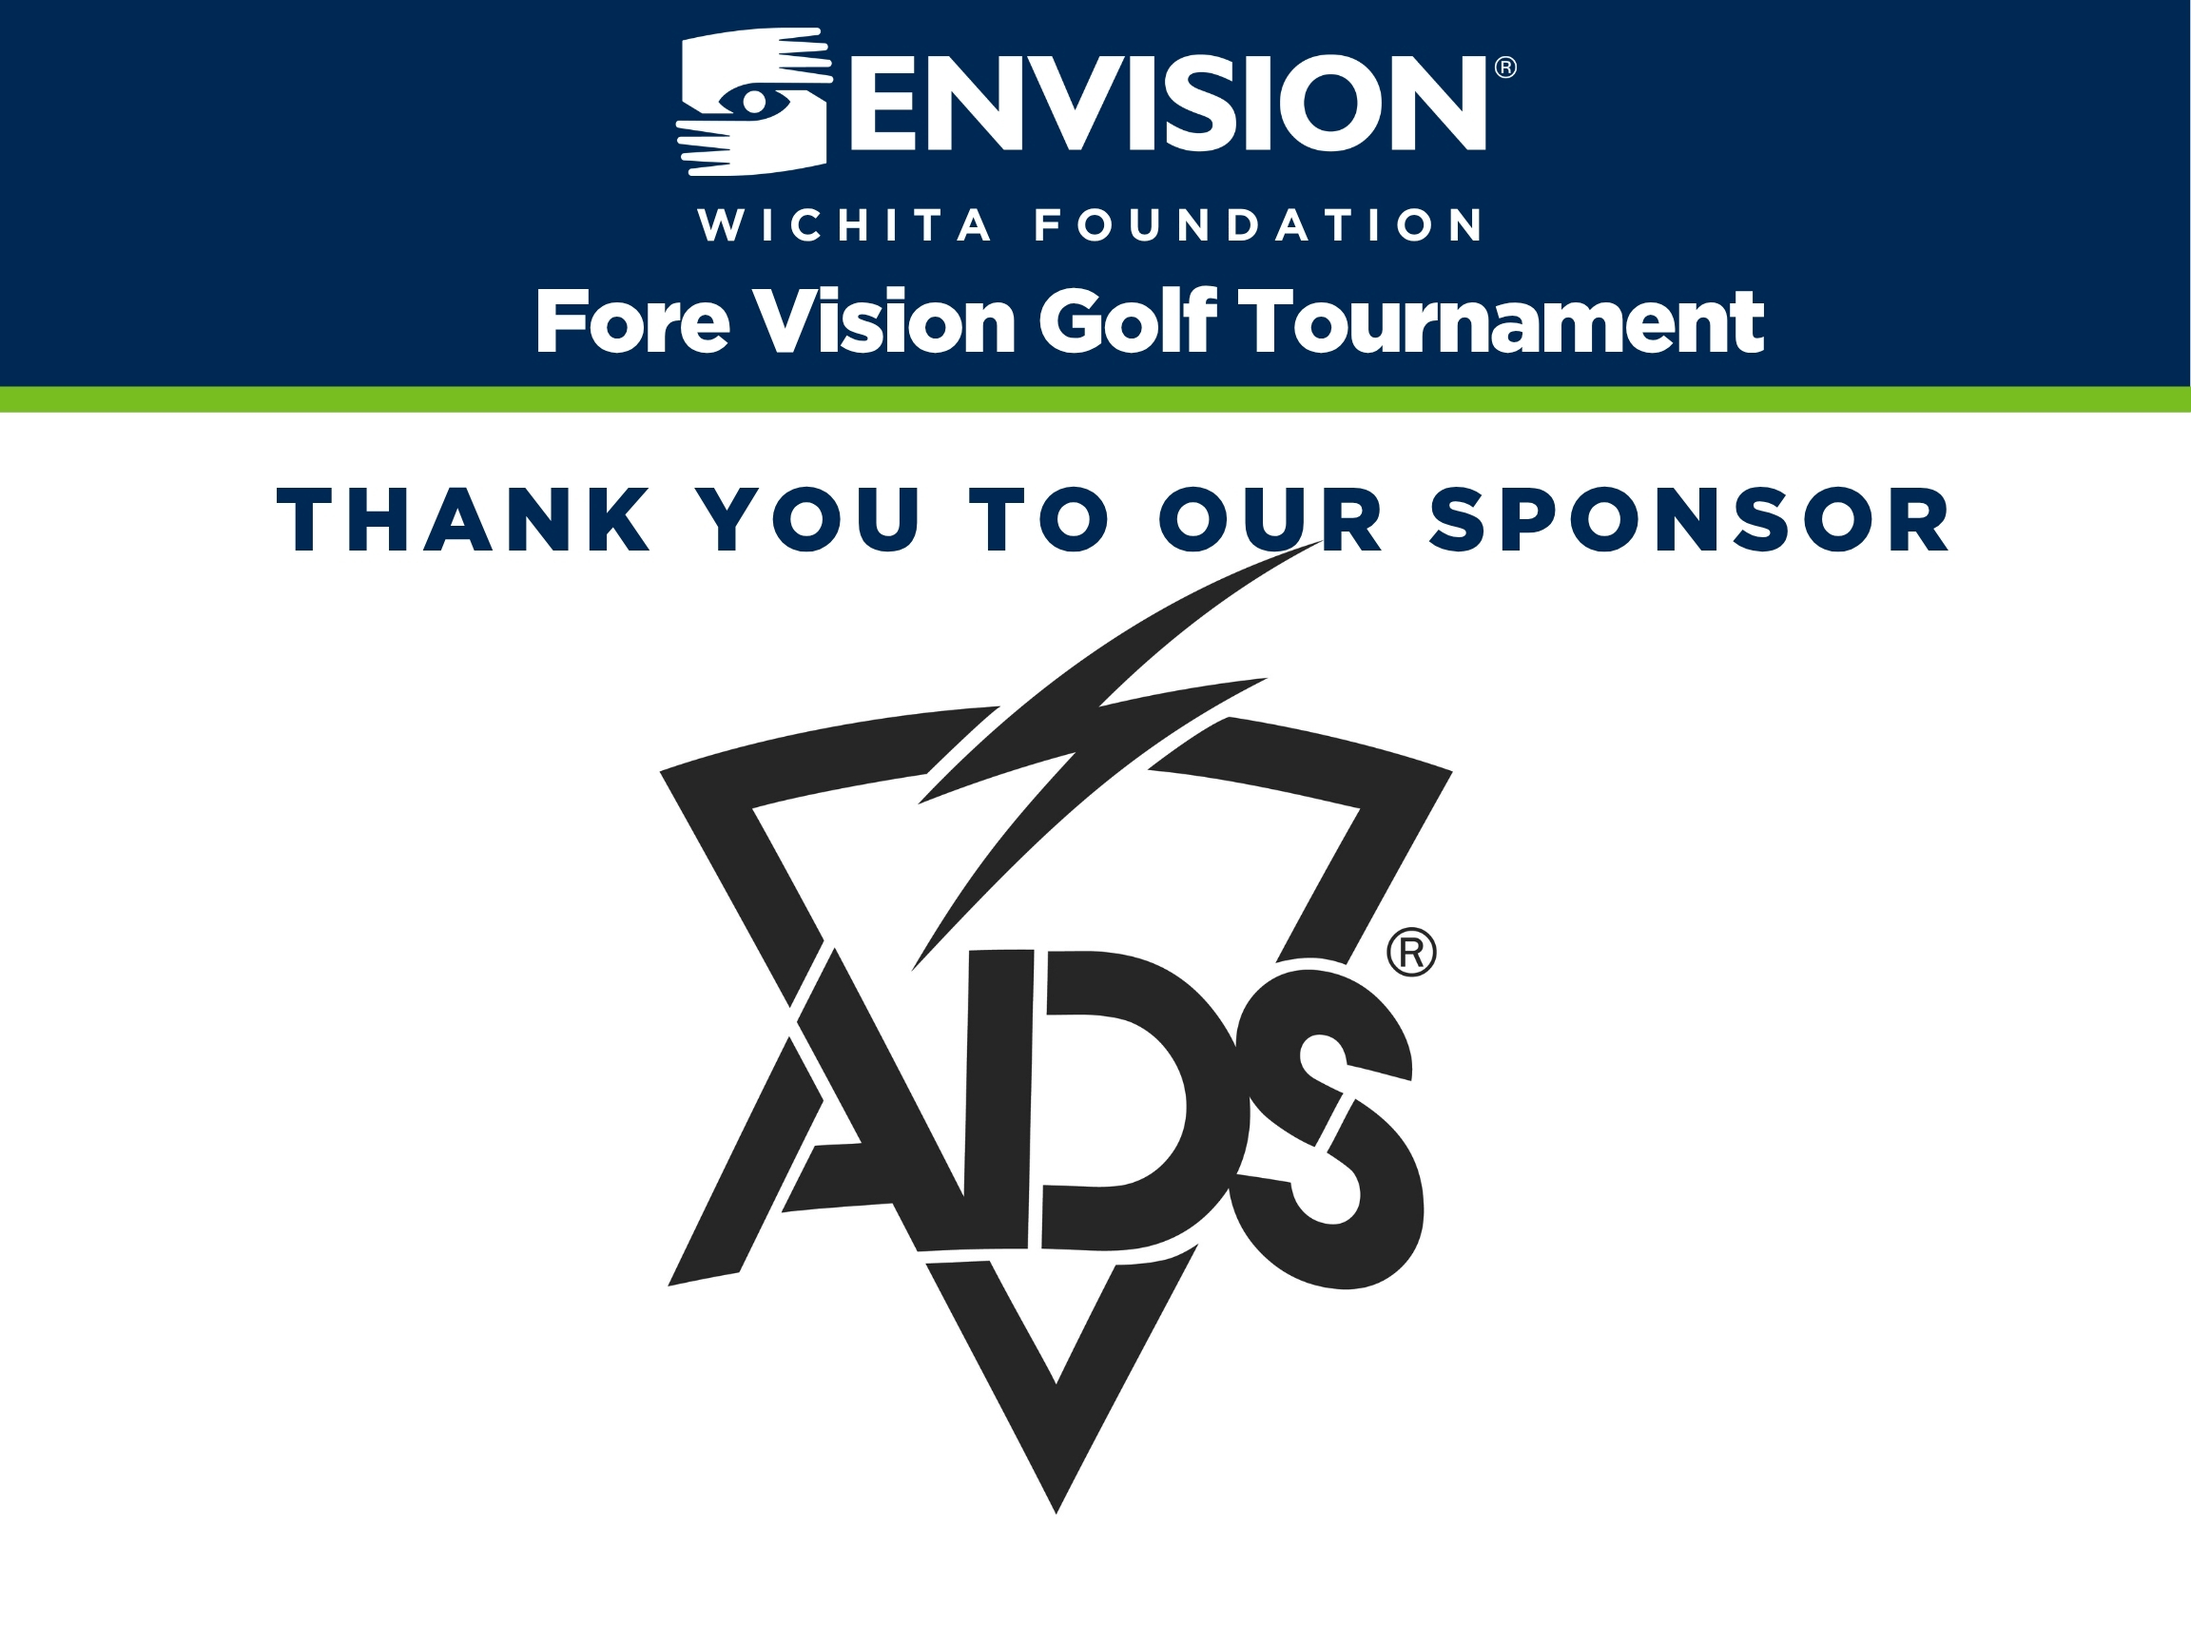
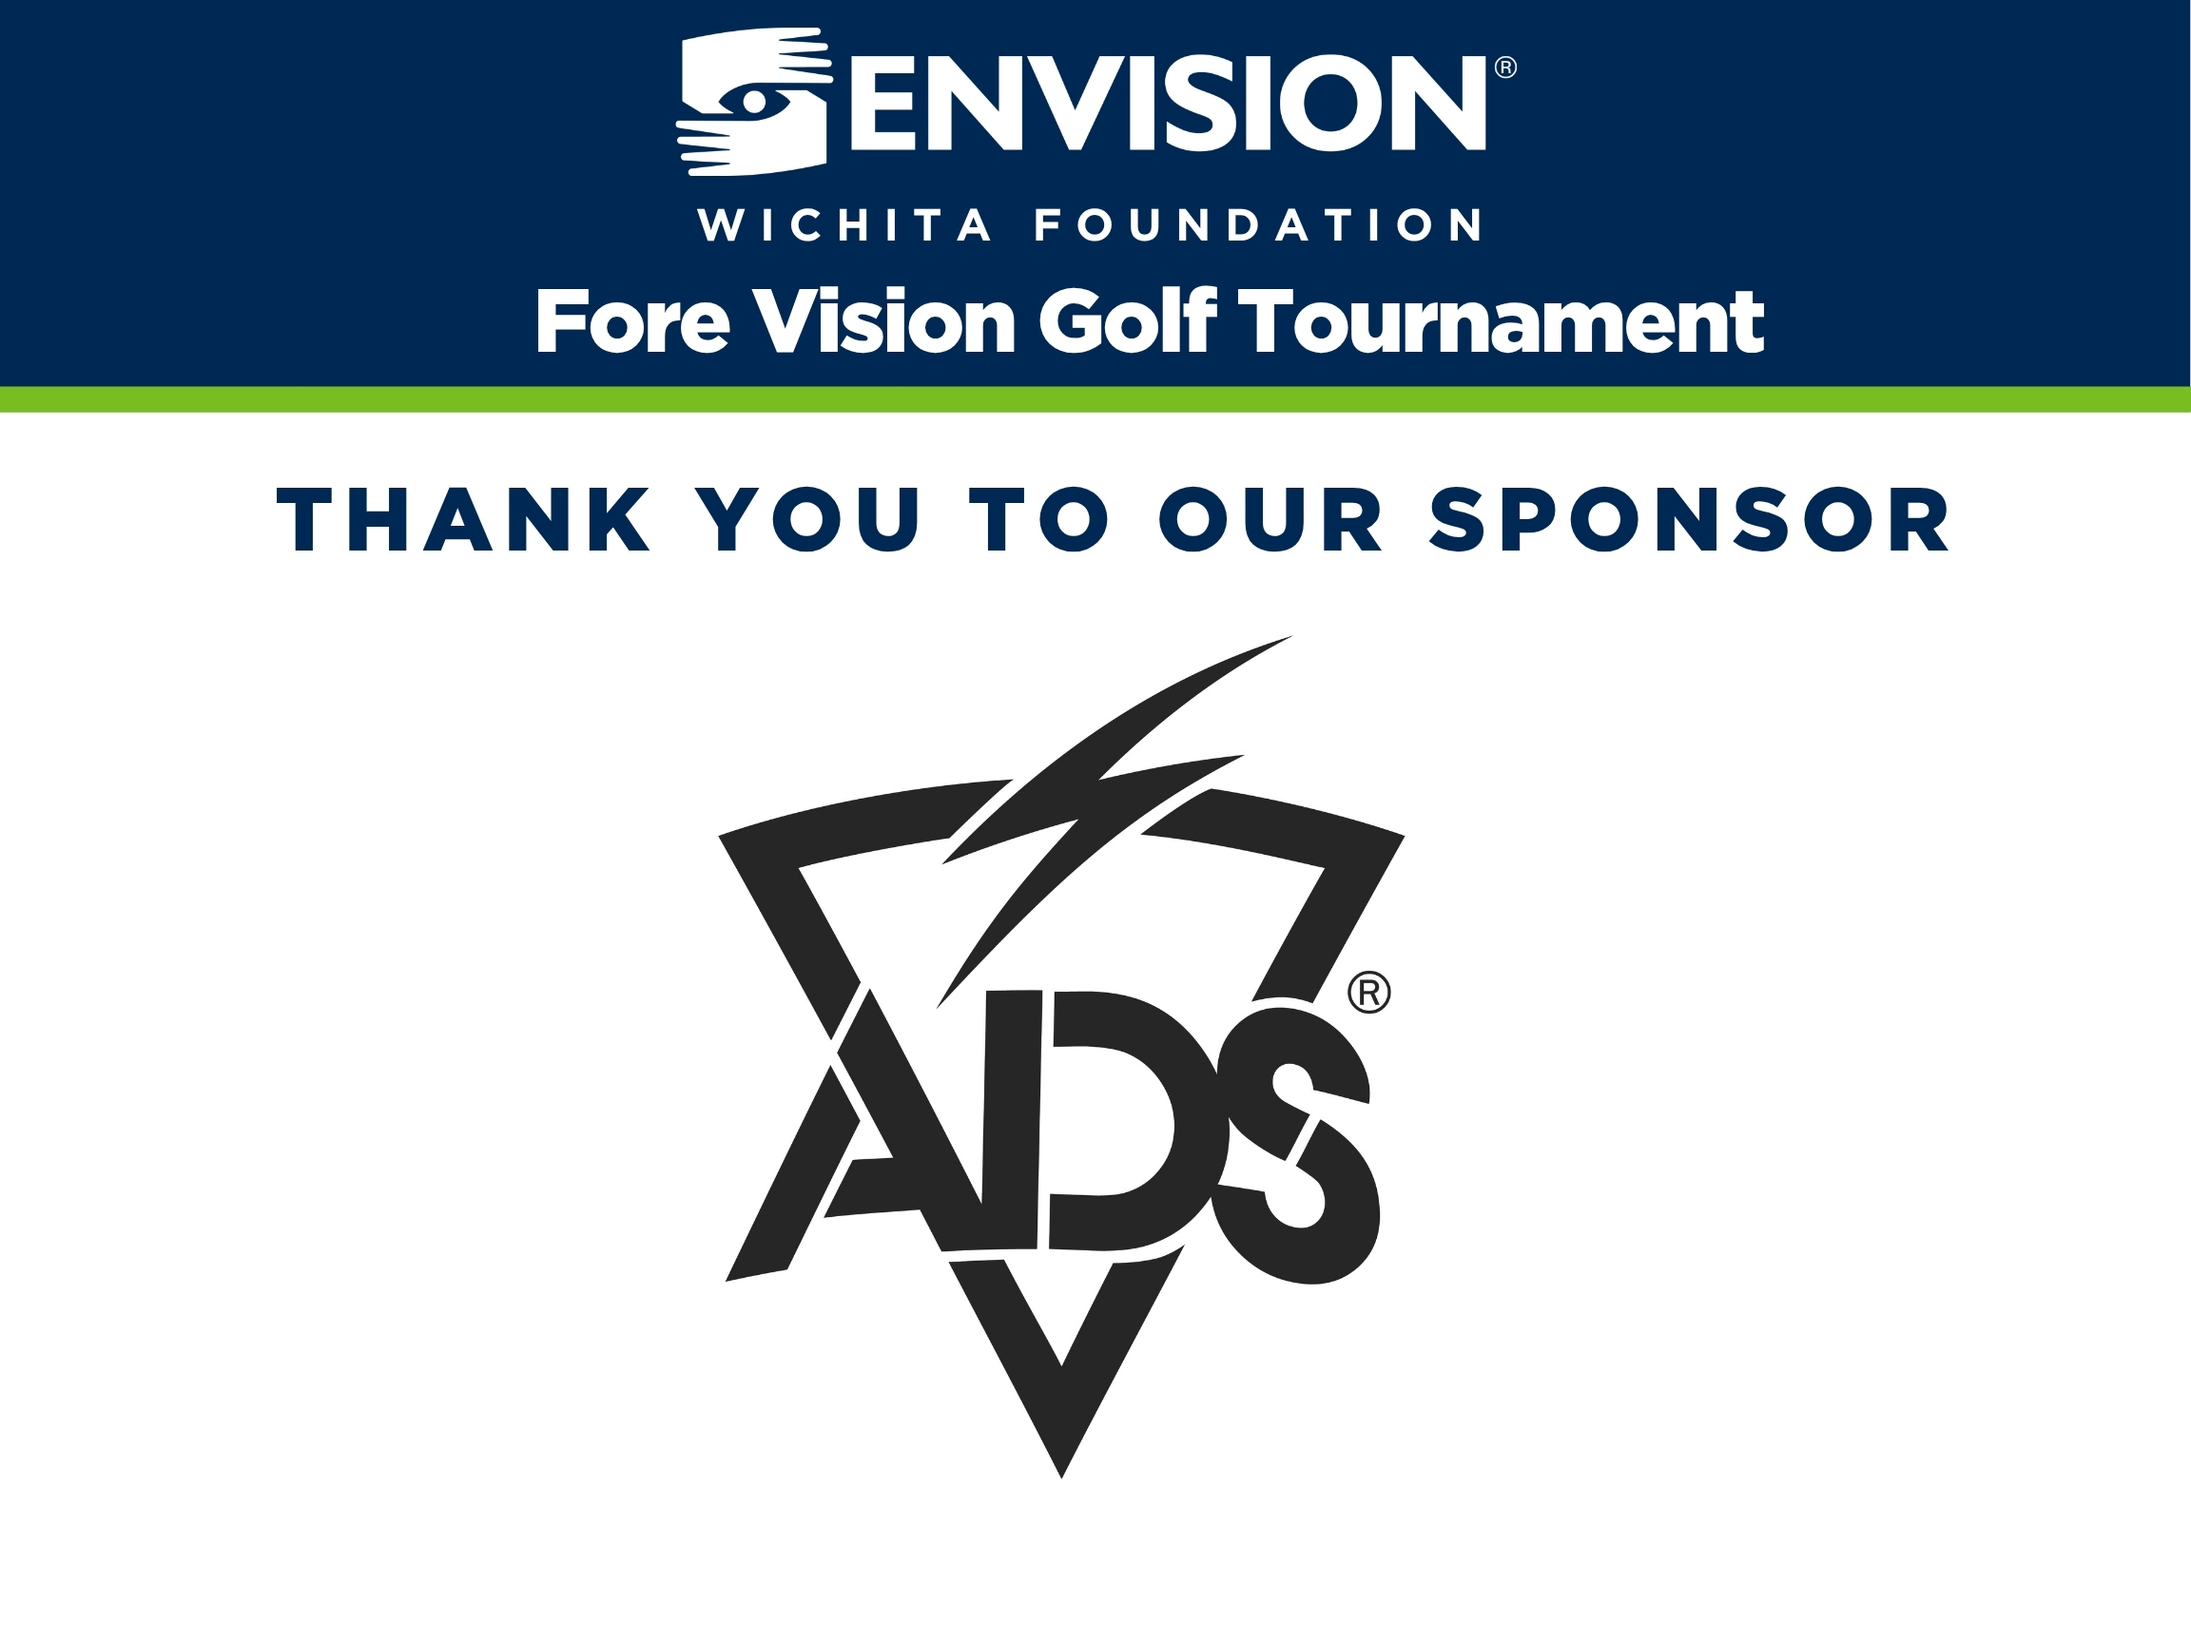
Update sponsor assets and remove discontinued sponsorships
- Replace All-Sponsor board with 30x30_AllSponsor.jpg
- Remove Breakfast Sponsor (ADS) entry
- Remove Golf Cart Sponsor section entirely
- Update ADS Tee Box, Mesh Banner, Check-In, and Mulligan/Golden Ball assets
- Rename "Mulligan Rules" to "Golden Ball Rules"
- Add Air Cannon Rules sign (8.5x11_aircannonrules.jpg)
- Update Program Back to Wichita Program-back_2.jpg

Changed region(s): [[0.2812, 0.3438, 0.6562, 0.875], [0.4688, 0.875, 0.5, 0.9375]]

diff --git a/script.js b/script.js
@@ -36,7 +36,7 @@ const sectionConfig = [
         id: "event-sponsors",
         title: "Event Sponsors — 30x30 Foam Board (Easel)",
         assets: [
-          { name: "All Sponsors", file: "30x30_AllSponsor-3.jpg" },
+          { name: "All Sponsors", file: "30x30_AllSponsor.jpg" },
           {
             name: "Presenting Sponsor — High Touch Technologies, Inc.",
             file: "30x30_presenting_high-touch.jpg",
@@ -50,7 +50,6 @@ const sectionConfig = [
             name: "Beverage Cart Sponsor — IMA, Inc.",
             file: "30x30_beveragecart_IMA.jpg",
           },
-          { name: "Breakfast Sponsor — ADS, Inc.", file: "30x30_breakfast_ads.jpg" },
           { name: "Lunch Sponsor — Security 1st Title", file: "30x30_lunch_security-1st.jpg" },
           { name: "Apparel Sponsor — Under Armour", file: "30x30_apparel_under-armour.jpg" },
           {
@@ -64,13 +63,6 @@ const sectionConfig = [
         title: "Beverage Cart Sponsor — 6x4 Cling",
         assets: [
           { name: "Beverage Cart Sponsor — IMA, Inc.", file: "special_beverage-cart_ima.jpg" },
-        ],
-      },
-      {
-        id: "golf-cart-sponsor",
-        title: "Golf Cart Sponsor",
-        assets: [
-          { name: "Golf Cart Sponsor — TBD", file: "special_golf-cart_TBD.jpg" },
         ],
       },
       {
@@ -150,7 +142,8 @@ const sectionConfig = [
         id: "printed-materials",
         title: "Printed Materials (8.5x11)",
         assets: [
-          { name: "Mulligan Rules", file: "8.5x11_mulligan-rules.jpg" },
+          { name: "Golden Ball Rules", file: "8.5x11_mulligan-rules.jpg" },
+          { name: "Air Cannon Rules", file: "8.5x11_aircannonrules.jpg" },
           { name: "Check-In Signs", file: "8.5x11_check-in.jpg" },
           { name: "Printed Template", file: "8.5x11_printedtemplate.jpg" },
         ],
@@ -160,7 +153,7 @@ const sectionConfig = [
         title: "Program",
         assets: [
           { name: "Program — Front", file: "Wichita-Program-Front-Back_1.jpg" },
-          { name: "Program — Back", file: "Wichita-Program-Front-Back_2.jpg" },
+          { name: "Program — Back", file: "Wichita Program-back_2.jpg" },
         ],
       },
       {
